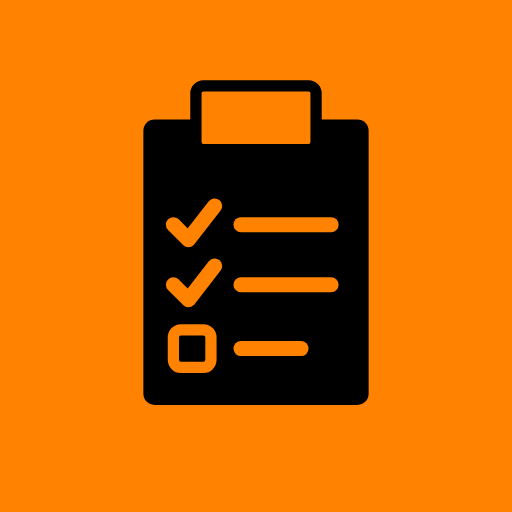
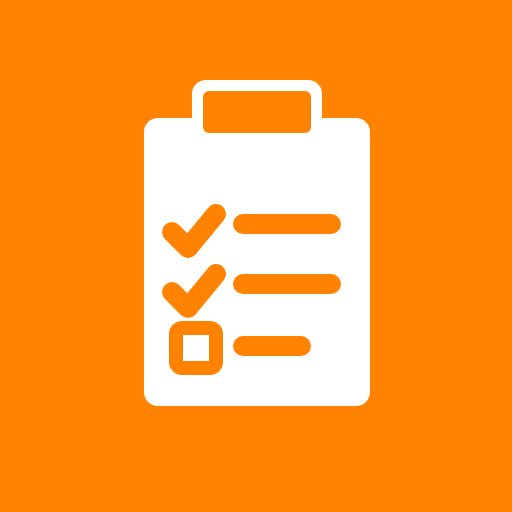
v0.99.11: test-report fixes, batch 1

Changed region(s): [[0.2812, 0.1562, 0.75, 0.8125]]

diff --git a/guest/guest.js b/guest/guest.js
@@ -166,6 +166,7 @@ function partView(part, sheet) {
   } else if (part.kind === 'waitlist') {
     lines.push(h('div', { class: 'what' }, part.name));
     lines.push(h('span', { class: 'tag warn' }, 'On the waiting list'));
+    lines.push(h('div', { class: 'line' }, 'No place yet, so nothing else is planned for you this half-day. You will be told if a place opens.'));
   } else {
     cls += ' leisure';
     lines.push(h('div', { class: 'what' }, 'To be confirmed'));
@@ -698,6 +699,11 @@ function askSwitch(sheet, mineIndex, toIndex) {
   });
 }
 
+// When a request was sent, and when it was answered, in the phone's own time (e.g. "Sent Tue, Oct 14, 6:42 PM · answered Wed, Oct 15, 8:05 AM").
+function requestTimes(r) {
+  const at = (iso) => new Date(iso).toLocaleString('en-US', { weekday: 'short', month: 'short', day: 'numeric', hour: 'numeric', minute: '2-digit' });
+  return [r.created_at ? `Sent ${at(r.created_at)}` : null, r.decided_at ? `answered ${at(r.decided_at)}` : null].filter(Boolean).join(' · ');
+}
 const REQUEST_STATUS = { pending: 'Waiting for your leader', approved: 'Approved', declined: 'Not possible', cancelled: 'Taken back', failed: 'Not possible' };
 function myRequestsBlock() {
   const recent = myRequests.filter((r) => r.status === 'pending' || Date.now() - Date.parse(r.decided_at || r.created_at) < 3 * 86400000).slice(0, 5);
@@ -706,6 +712,7 @@ function myRequestsBlock() {
     recent.map((r) => h('div', { class: `request request--${r.status}` },
       h('div', { class: 'request-what' }, `Day ${r.payload.day} ${String(r.payload.half).toLowerCase()}: ${r.payload.to}`),
       h('div', { class: 'request-state' }, REQUEST_STATUS[r.status] ?? r.status, r.note ? ` · ${r.note}` : ''),
+      h('div', { class: 'request-when' }, requestTimes(r)),
       r.status === 'pending' ? h('button', { class: 'link-btn', type: 'button', onclick: async () => { try { await callRpc('cancel_guest_request', { p_token: currentToken(), p_id: r.id }); await loadMyRequests(); paint(); } catch { /* offline */ } } }, 'Take it back') : null)));
 }
 
@@ -875,10 +882,32 @@ function creditsView(sheet, offline) {
 // (distance, climb, steps, heat, tight spaces...). Not hidden behind a bubble or an "i".
 // One block at the end of a tour page: how demanding it is AND what a guest with reduced mobility needs to know (owner's request, 4 Oct 2026).
 // The level in words, then the leader's own factual details (distance, steps, lifts, floors), so the guest can decide or come and talk to the leader.
+// Two texts that say nearly the same thing (the short note and the accessibility text often repeat "More than 200 steps... gentle group") are shown once:
+// the longer one. Compared by the words they share.
+function distinctTexts(texts) {
+  const words = (t) => new Set(t.toLowerCase().match(/[a-z0-9]+/g) ?? []);
+  const kept = [];
+  for (const text of texts.filter(Boolean)) {
+    const mine = words(text);
+    const twin = kept.findIndex((k) => { const other = words(k); const shared = [...mine].filter((w) => other.has(w)).length; return shared / new Set([...mine, ...other]).size >= 0.6; });
+    if (twin === -1) kept.push(text); else if (text.length > kept[twin].length) kept[twin] = text;
+  }
+  return kept;
+}
+
+// A small walking-stick sign so a guest sees at a glance that a gentle group is offered (the leader writes it in the tour's notes).
+function offersGentleGroup(info) { return /gentle (walk|group|pace)/i.test(`${info?.difficultyNote ?? ''} ${info?.accessibility ?? ''}`); }
+function gentleChip() {
+  const icon = document.createElementNS('http://www.w3.org/2000/svg', 'svg');
+  icon.setAttribute('viewBox', '0 0 24 24'); icon.setAttribute('width', '15'); icon.setAttribute('height', '15'); icon.setAttribute('aria-hidden', 'true');
+  icon.innerHTML = '<circle cx="13" cy="4.5" r="2" fill="currentColor"/><path d="M12 8l-2 5 2 3v5M12 8l3 3 3 1M10 13l-2 7M19 9v12" fill="none" stroke="currentColor" stroke-width="1.8" stroke-linecap="round" stroke-linejoin="round"/>';
+  return h('span', { class: 'chip chip--gentle' }, icon, 'Gentle walking group');
+}
+
 function levelBlock(info) {
   const level = info?.difficulty ? DIFFICULTY[info.difficulty] : null;
   if (!level && !info?.accessibility && !info?.difficultyNote) return null;
-  const facts = [info.difficultyNote, info.accessibility].filter(Boolean);
+  const facts = distinctTexts([info.difficultyNote, info.accessibility]);
   return h('section', { class: `atl-section atl-level${level ? ` level--${info.difficulty}` : ''}` },
     h('div', { class: 'atl-label' }, level ? 'Activity level and accessibility' : 'Accessibility'),
     level ? h('div', { class: 'atl-level-name' }, h('i', { class: 'atl-level-dot' }), level.label) : null,
@@ -906,13 +935,14 @@ function tourView(sheet, tour, offline) {
       h('div', { class: 'chips atl-chips' },
         tour.time ? chip(`Leaves ${tour.time}`, 'chip--time') : null,
         tour.meeting ? chip(tour.meeting, 'chip--place') : null,
-        info.duration ? chip(info.duration) : null)),
+        info.duration ? chip(info.duration) : null,
+        offersGentleGroup(info) ? gentleChip() : null)),
     h('div', { class: 'atl-body atl-body--tour' },
       offline,
       section('What happens', info.description, 'atl-story'),
       section('Good to know', info.bring),
-      tour.who ? section('Who can join', tour.who) : null,
-      levelBlock(info)),
+      levelBlock(info),
+      tour.who ? section('Who can join', tour.who) : null), // last, and only when there is a real restriction
   ].filter(Boolean);
 }
 

diff --git a/js/views/settingsGroups.js b/js/views/settingsGroups.js
@@ -64,23 +64,42 @@ function listPage(ctx, trip) {
 function newSplitSheet(ctx, trip) {
   const name = h('input', { class: 'text-input', type: 'text', maxlength: '60', 'aria-label': 'Name of the split' });
   const details = h('input', { class: 'text-input', type: 'text', maxlength: '200', 'aria-label': 'Details' });
-  const groups = h('input', { class: 'text-input', type: 'text', 'aria-label': 'Group names' });
+  // The group names sit one under the other (Bus 1, Bus 2, Bus 3 to start with); "+ Add a group" adds a line, the cross removes one (owner's request).
+  const rows = h('div', { class: 'group-name-rows' });
+  const names = () => [...rows.querySelectorAll('input')].map((i) => i.value.trim()).filter((n) => n !== '');
+  const addRow = (value) => {
+    const input = h('input', { class: 'text-input', type: 'text', maxlength: '60', value, 'aria-label': 'Group name' });
+    const row = h('div', { class: 'group-edit-row' }, input,
+      h('button', { class: 'btn btn--small btn--plain', type: 'button', 'aria-label': 'Remove this group', onclick: () => row.remove() }, '✕'));
+    rows.append(row);
+    return input;
+  };
+  ['Bus 1', 'Bus 2', 'Bus 3'].forEach(addRow);
+  const create = async (spread) => {
+    const list = names().map((n) => ({ name: n, capacity: null }));
+    const result = await save(ctx, trip, { type: 'add-split', name: name.value, details: details.value, groups: list });
+    if (!result) return;
+    if (spread) {
+      // "Auto-create": the guests are spread over the new groups straight away, as many as there are groups.
+      const fresh = ctx.trip(trip.id); const split = fresh.splits.find((x) => x.id === result.splitId);
+      const everyone = activeGuests(fresh).map((g) => g.id);
+      await save(ctx, fresh, { type: 'assign-guests', splitId: split.id, assignments: autoSplitPlan(fresh, split, everyone) }, 'Guests spread over the groups');
+    }
+    ctx.go(`#/trip/${trip.id}/settings/groups/${result.splitId}`);
+  };
   openSheet({
     eyebrow: 'Groups', title: 'New split',
     subtitle: 'You can rename, add and remove groups afterwards.',
     body: [
       field('Name', name, 'For example: Nile transfer'),
       field('Details printed on cards (optional)', details, 'For example: Depart 07:30, hotel lobby'),
-      field('Group names', groups, 'Separate with commas. For example: Bus 1, Bus 2, Bus 3'),
+      h('div', { class: 'form-label' }, 'Groups'), rows,
+      h('button', { class: 'btn btn--plain', type: 'button', onclick: () => addRow(`Bus ${rows.children.length + 1}`).select() }, '+ Add a group'),
     ],
-    footer: h('button', {
-      class: 'btn', type: 'button',
-      onclick: async () => {
-        const list = groups.value.split(',').map((g) => ({ name: g.trim(), capacity: null })).filter((g) => g.name !== '');
-        const result = await save(ctx, trip, { type: 'add-split', name: name.value, details: details.value, groups: list });
-        if (result) ctx.go(`#/trip/${trip.id}/settings/groups/${result.splitId}`);
-      },
-    }, 'Create'),
+    footer: [
+      h('button', { class: 'btn', type: 'button', onclick: () => create(true) }, 'Create and spread the guests over the groups'),
+      h('button', { class: 'btn btn--plain', type: 'button', onclick: () => create(false) }, 'Create empty groups'),
+    ],
   });
 }
 

diff --git a/js/tests.js b/js/tests.js
@@ -3409,7 +3409,7 @@ function readZip(bytes) {
   const rnSheet = buildGuestSheet(rn, rn.guests[0], '2027-06-01T00:00:00.000Z');
   const rnWho = (re) => rnSheet.tours.find((t) => re.test(t.name))?.who;
   check('The guest app tells who can join a tour: minimum age, adults only, children\'s programme',
-    /Minimum age 14/.test(rnWho(/Bike/) ?? '') && /Adults only/.test(rnWho(/\(adults\)/) ?? '') && /Children's programme/.test(rnWho(/Juniors Experience/) ?? '') && /Children under 18 join with an adult/.test(rnWho(/Old Lyon/) ?? ''), JSON.stringify(rnSheet.tours.map((t) => t.who)).slice(0, 200));
+    /Minimum age 14/.test(rnWho(/Bike/) ?? '') && /Adults only/.test(rnWho(/\(adults\)/) ?? '') && /Children's programme/.test(rnWho(/Juniors Experience/) ?? '') && rnWho(/Old Lyon/) === null, JSON.stringify(rnSheet.tours.map((t) => t.who)).slice(0, 200));
   check('That text holds no guest name', !rn.guests.some((g) => rnSheet.tours.some((t) => (t.who ?? '').includes(g.first))));
   check('A trip wears orange by default, the colour of its company or its file otherwise (tripAccent)',
     tripAccent(rn.branding) === '#FF8200' && tripAccent({ companyName: 'X', accent: '#336699' }) === '#336699' && tripAccent({ companyName: '', accent: '#336699' }) === '#336699' && tripAccent({ companyName: '', accent: '#1d5c57' }) === '#FF8200');
@@ -3418,6 +3418,11 @@ function readZip(bytes) {
   const fixedLook = structuredClone(rnRaw); const lookTrip = buildTrip(fixedLook);
   check('A trip file with its own colour keeps it (fixed), so the device\'s company look does not replace it', lookTrip.branding.fixed === true && lookTrip.branding.accent === '#FF8200' && !buildTrip({ ...rnRaw, trip: { ...rnRaw.trip, accent: undefined } }).branding.fixed);
   const guestSrc = await (await fetch('./guest/guest.js')).text();
+  check('Only a real restriction is written under "Who can join" (the rule that children are always with an adult is not repeated), and the block comes last',
+    rnSheet.tours.filter((t) => t.who === null).length > 0 && rnSheet.tours.every((t) => t.who === null || /Minimum age|Adults only|Children's programme/.test(t.who))
+    && guestSrc.indexOf("section('Who can join'") > guestSrc.indexOf('levelBlock(info),'));
+  check('Two texts that say the same thing (notes and accessibility) are shown once, and a gentle walking group gets its own sign', /function distinctTexts/.test(guestSrc) && /Gentle walking group/.test(guestSrc));
+  check('"My requests" shows when each request was sent and answered, and a waitlisted guest is told what it means', /requestTimes\(r\)/.test(guestSrc) && /nothing else is planned for you/.test(guestSrc));
   check('The guest app never shows the company name in its headers', !/sheet\.company/.test(guestSrc.replace(/const keep = [^\n]*/, '')));
   const rnCtx = () => { const c = { owner, state: structuredClone(rn), entries: [], trip: (id) => (id === c.state.id ? c.state : undefined), journal: () => c.entries, async commit(next, entries) { c.state = next; c.entries.push(...entries); } }; return c; };
   const parent = rn.guests.find((g) => g.age >= 30 && g.age < 55 && rn.guests.some((k) => k.partyId === g.partyId && k.age < 12));

diff --git a/js/views/settingsTeam.js b/js/views/settingsTeam.js
@@ -8,12 +8,12 @@ import { h } from '../dom.js';
 import { showToast } from '../ui.js';
 import { pageHead } from './chrome.js';
 import { notice } from './move.js';
-import { sendMagicLink } from '../auth.js';
+import { sendMagicLink, existingSession } from '../auth.js';
 import { openSheet } from '../ui.js';
 import { qrSvg } from '../qr.js';
 import { listMembers, inviteMember, removeMember, cleanInviteEmail, MEMBER_ROLES } from '../sync.js';
 
-const ROLE_LABEL = { team: 'Team', viewer: 'View only' };
+const ROLE_LABEL = { team: 'Team', viewer: 'View only', owner: 'Owner (you)' };
 
 // Sends the person the sign-in e-mail (the code and the link that opens the app) so that inviting is one tap for the owner and one
 // tap for them. Returns a sentence saying how it went. (The e-mail is the usual sign-in one: Supabase limits how many it sends per hour.)
@@ -68,8 +68,8 @@ export function memberCard(member, { resend, remove, access, scopeName }) {
     h('div', { class: 'muted' }, `${ROLE_LABEL[member.role] ?? member.role}${scopeName ? ` · only ${scopeName}` : ''}`),
     h('div', { class: 'card-actions' },
       h('button', { class: 'btn btn--small btn--plain', type: 'button', onclick: access }, 'QR code'),
-      h('button', { class: 'btn btn--small btn--plain', type: 'button', onclick: resend }, 'Re-send email'),
-      h('button', { class: 'btn btn--small btn--plain', type: 'button', onclick: remove }, 'Remove')));
+      resend ? h('button', { class: 'btn btn--small btn--plain', type: 'button', onclick: resend }, 'Re-send email') : null,
+      remove ? h('button', { class: 'btn btn--small btn--plain', type: 'button', onclick: remove }, 'Remove') : null));
 }
 
 export function teamSettingsPage(ctx, trip) {
@@ -82,6 +82,9 @@ export function teamSettingsPage(ctx, trip) {
   }
 
   const list = h('div', {}, h('p', { class: 'muted count-line' }, 'Loading…'));
+  // The owner's own line, with its own QR code, to sign in on a second phone or tablet of the same account (like every colleague's line).
+  const mine = h('div', {});
+  existingSession().then((me) => { if (me?.email) mine.replaceChildren(memberCard({ email: me.email, role: 'owner' }, { access: () => accessSheet(ctx, trip, { email: me.email, role: 'owner' }) })); }).catch(() => {});
   const message = h('div', { class: 'message', role: 'alert', hidden: true });
   const say = (text) => { message.textContent = text; message.hidden = !text; };
 
@@ -131,6 +134,7 @@ export function teamSettingsPage(ctx, trip) {
   return h('div', {},
     head,
     notice('In this first version, the people you invite can look at the trip and its documents, kept up to date, but cannot change anything yet.'),
+    mine,
     list,
     h('h2', { class: 'section-title' }, 'Invite someone'),
     h('div', { class: 'form-field' }, h('label', { class: 'form-label' }, 'E-mail address', email), h('div', { class: 'form-hint' }, 'They receive the usual sign-in e-mail (a code, and a link that opens the app). One tap to invite, one tap for them.')),

diff --git a/guest/guest.css b/guest/guest.css
@@ -422,6 +422,7 @@ h1, h2, .dest-name, .what, .next-what, .tour-title, .pass .stub, .passport-title
 .request:first-of-type { border-top: 0; }
 .request-what { font-weight: 700; }
 .request-state { font-size: 14px; color: var(--muted); }
+.request-when { font-size: 13px; color: var(--muted); }
 .request--approved .request-state { color: #1b6b3a; font-weight: 700; }
 .request--declined .request-state, .request--failed .request-state { color: #a3281a; font-weight: 700; }
 .modal { position: fixed; inset: 0; z-index: 80; background: rgba(0, 0, 0, .5); display: flex; align-items: flex-end; justify-content: center; }
@@ -512,6 +513,7 @@ html, body, main { background: #fff; }
 .atl-chips { margin: 14px 0 0; }
 .atl-chips .chip { border: 0; border-radius: 99px; background: var(--atl-mist); color: #000; font: 600 12px Inter, sans-serif; letter-spacing: 0; text-transform: none; padding: 8px 13px; }
 .atl-chips .chip--time { background: var(--yellow); }
+.atl-chips .chip--gentle { display: inline-flex; align-items: center; gap: 6px; background: #e4f4e6; color: #17562a; }
 .atl-body--tour { padding-top: 6px; }
 .atl-section { padding: 22px 8px 4px; border-top: 1px solid #ececE8; margin-top: 18px; }
 .atl-section:first-of-type { border-top: 0; margin-top: 8px; }
@@ -631,6 +633,7 @@ input[type=checkbox] { accent-color: #000; }
 
 /* ---- Atlas: one look for every small piece (banners, buttons, links, panels, fields) ---- */
 .banner { background: var(--atl-mist); color: #1d1d1b; border-radius: 20px; padding: 14px 16px; margin: 12px 0; font-size: 14px; line-height: 1.45; }
+.banner { background: var(--yellow); color: var(--on-yellow, #000); font-weight: 700; } /* v0.99.11: the offline notice in the trip's colour, so it is seen (owner's request) */
 .banner .link { border: 0; background: var(--yellow); color: var(--on-yellow, #000); border-radius: 99px; font: 700 13px Inter, sans-serif; padding: 8px 16px; min-height: 36px; margin-left: 6px; cursor: pointer; }
 .updated-row { display: flex; justify-content: space-between; align-items: center; gap: 12px; margin: 16px 0 0; font-size: 13px; color: #55554f; }
 .link-btn { border: 0; border-radius: 99px; background: var(--atl-mist); color: #000; font: 600 12px Inter, sans-serif; letter-spacing: .06em; text-transform: uppercase; padding: 10px 16px; min-height: 40px; cursor: pointer; }

diff --git a/js/views/move.js b/js/views/move.js
@@ -388,7 +388,7 @@ function confirmSheet(ctx, trip, { title, detail, warnings, confirmLabel, danger
   const asking = force && ctx.roleFor?.(trip.id) === 'team';
   const approval = force
     ? (asking
-      ? h('textarea', { class: 'text-input approval-input', rows: '3', maxlength: '200', placeholder: 'Why must this one be forced? (required)', 'aria-label': 'Why must this one be forced?' })
+      ? h('textarea', { class: 'text-input approval-input', oninput: (e) => e.target.classList.remove('is-missing'), rows: '3', maxlength: '200', placeholder: 'Why must this one be forced? (required)', 'aria-label': 'Why must this one be forced?' })
       : h('input', {
         class: 'text-input approval-input', type: 'text', placeholder: 'Approved by (optional)', 'aria-label': 'Approved by (optional)',
         maxlength: '60', autocomplete: 'off', autocapitalize: 'words', spellcheck: 'false',
@@ -398,7 +398,8 @@ function confirmSheet(ctx, trip, { title, detail, warnings, confirmLabel, danger
   const confirmButton = h('button', {
     class: `btn${danger || force ? ' btn--danger' : ''}`, type: 'button',
     onclick: () => {
-      if (asking && !approval.value.trim()) { showToast('Write why this move must be forced.', true); return; }
+      // The missing reason is shown ON the box (red frame, red words) instead of in a message that disappears.
+      if (asking && !approval.value.trim()) { approval.classList.add('is-missing'); approval.placeholder = 'Required: write why this one must be forced'; approval.focus(); return; }
       saveChanges(
         ctx, trip,
         force ? changes.map((change) => (asking ? { ...change, force: true, forceReason: approval.value.trim() } : { ...change, force: true, approvedBy: approval.value })) : changes,

diff --git a/js/views/settingsRequests.js b/js/views/settingsRequests.js
@@ -118,10 +118,10 @@ export function requestsSettingsPage(ctx, trip) {
   function colleagueChoices(row) {
     const asWaitlist = row.changes.map((c) => (c?.type === 'move' && c.to?.kind === 'activity' ? { type: 'move', guestId: c.guestId, slotId: c.slotId, to: { kind: 'waitlist', activityId: c.to.activityId } } : c));
     const askSheet = () => {
-      const reason = h('textarea', { class: 'text-input', rows: '3', maxlength: '200', placeholder: 'Why must this one be forced? (required)', 'aria-label': 'Why must this one be forced?' });
+      const reason = h('textarea', { class: 'text-input', oninput: (e) => e.target.classList.remove('is-missing'), rows: '3', maxlength: '200', placeholder: 'Why must this one be forced? (required)', 'aria-label': 'Why must this one be forced?' });
       openSheet({ eyebrow: 'Over capacity', title: 'Ask the owner to force it?', subtitle: describeRequest(trip, row.changes, names),
         body: [reason, h('button', { class: 'btn btn--danger', type: 'button', onclick: async () => {
-          if (!reason.value.trim()) { showToast('Write why this move must be forced.', true); return; }
+          if (!reason.value.trim()) { reason.classList.add('is-missing'); reason.placeholder = 'Required: write why this one must be forced'; reason.focus(); return; }
           closeSheet();
           const result = await ctx.askAgain(trip.id, row.changes.map((c) => (c?.type === 'move' && c.to?.kind === 'activity' ? { ...c, force: true, forceReason: reason.value.trim() } : c)));
           showToast(result.ok ? 'Request sent to the owner' : result.error, !result.ok);

diff --git a/js/views/dining.js b/js/views/dining.js
@@ -415,12 +415,12 @@ function guestPicker(trip, slot, { eyebrow, title, subtitle, ceiling, baseUsed, 
     if (candidates.length === 0) { partyPrompt.replaceChildren(); return; }
     const moverNames = joinNames([...candidates].sort(alphabetical(names)).map((c) => names.get(c.id)));
     partyPrompt.replaceChildren(notice(`${names.get(guest.id)} travels with ${moverNames}`),
-      h('div', { class: 'card-actions' },
-        h('button', {
-          class: 'btn btn--small', type: 'button',
-          onclick: () => { for (const c of candidates) checked.add(c.id); partyPrompt.replaceChildren(); fill(); say(); },
-        }, `Add ${moverNames} too`),
-        h('button', { class: 'btn btn--small btn--plain', type: 'button', onclick: () => partyPrompt.replaceChildren() }, 'No')));
+      // Full-size buttons, like the "move them too" question in Touring (owner's request), not small ones.
+      h('button', {
+        class: 'btn', type: 'button',
+        onclick: () => { for (const c of candidates) checked.add(c.id); partyPrompt.replaceChildren(); fill(); say(); },
+      }, `Add ${moverNames} too`),
+      h('button', { class: 'btn btn--plain', type: 'button', onclick: () => partyPrompt.replaceChildren() }, 'No, just them'));
   };
 
   // The search matches by name only, exactly like the ordinary "Add guest" search elsewhere in the

diff --git a/guest/sw.js b/guest/sw.js
@@ -1,6 +1,6 @@
 // The guest app's service worker: keeps the app's own files on the phone so it opens with no internet. (The programme itself is kept by
 // guest.js.) Network first, with the kept copy as the fallback. Its scope is this folder only: it never touches the leader's app.
-const VERSION = '0.99.10'; // keep equal to GUEST_VERSION in the tests
+const VERSION = '0.99.11'; // keep equal to GUEST_VERSION in the tests
 const CACHE = `tour-docs-guest-${VERSION}`;
 const FILES = ['./', 'index.html', 'guest.css', 'guest.js', 'passport.js', 'explorer/state.js', 'explorer/themes.js', 'explorer/common.js', 'explorer/runner.js', 'explorer/fit.js', 'explorer/sequence.js', 'explorer/pour.js', 'explorer/mirror.js', 'explorer/rhythm.js', 'explorer/catch.js', 'explorer/flap.js', 'explorer/hidden.js', 'explorer/spot.js', 'explorer/archery.js', 'explorer/maze.js', 'explorer/carve.js', 'explorer/pipes.js', 'explorer/games.js', 'stamps.js', 'greetings.js', 'manifest.webmanifest', '../js/supabase-config.js', '../js/pushUtil.js',
   '../icons/apple-touch-icon.png', '../icons/icon-192.png', '../icons/icon-512.png'];

diff --git a/styles.css b/styles.css
@@ -1093,3 +1093,13 @@ input[type=checkbox] { accent-color: #000; }
 
 /* v0.96.0: a very dark company colour on the black menu: the active tab gets a thin white outline so it stays visible */
 :root[data-dark-company] .bottom-tab.is-active { outline: 2px solid #fff; outline-offset: -3px; }
+
+/* v0.99.11: a Delete button is always white on red, whatever card it sits on (owner's request) */
+.card .btn.btn--danger, .btn.btn--danger.btn--small { background: #c62828; border-color: #c62828; color: #fff; }
+
+/* v0.99.11: a required box left empty turns red, with its hint in red too (owner's request) */
+.text-input.is-missing { border-color: #c62828; background: #fdecea; }
+.text-input.is-missing::placeholder { color: #c62828; opacity: 1; font-weight: 700; }
+
+/* v0.99.11: guests on a waitlist, or in a tour by force, wear the trip's colour with black words (owner's request), never the pale grey of the others */
+.waitlist-section .chip, .chip.chip--forced { background: var(--yellow); border-color: var(--yellow); color: var(--on-yellow, #000); font-weight: 700; opacity: 1; }

diff --git a/js/guestSheet.js b/js/guestSheet.js
@@ -38,12 +38,12 @@ export function guestLinkExpiry(trip) {
 
 // Who may join a tour, in plain words (age rules, rules.js eligibilityProblems). Null when there is no rule to tell.
 function whoCanJoin(activity) {
+  // Only a real restriction is written out. "Children are always with an adult" is a rule for every tour (owner's decision, 15 Oct 2026), so it is not repeated.
   const bits = [];
   if (activity.audience === 'adults') bits.push('Adults only (18 and over)');
   else if (activity.audience === 'juniors') bits.push('Children\'s programme (under 18), with a guide');
-  else bits.push('Children under 18 join with an adult of their family');
   if (typeof activity.minAge === 'number') bits.unshift(`Minimum age ${activity.minAge}`);
-  return bits.join('. ');
+  return bits.length > 0 ? bits.join('. ') : null;
 }
 
 // The tours of the trip the guest can read about (the "Tours" tab). Dinners that still exist as activities ("Dinner: ...") are left out: dinners

diff --git a/sw.js b/sw.js
@@ -15,7 +15,7 @@
 // When you add a file to the app, add it to FILES below. The tests page checks that the list is
 // complete (a file missing from the list is the classic reason an app fails offline).
 
-const VERSION = '0.99.10'; // keep equal to js/version.js
+const VERSION = '0.99.11'; // keep equal to js/version.js
 const CACHE = `tour-docs-${VERSION}`;
 const SLOW = 3000;        // milliseconds to wait for the network before using the copy
 const PAUSE = 30000;      // after the network failed once, do not try it again for this long (milliseconds)
